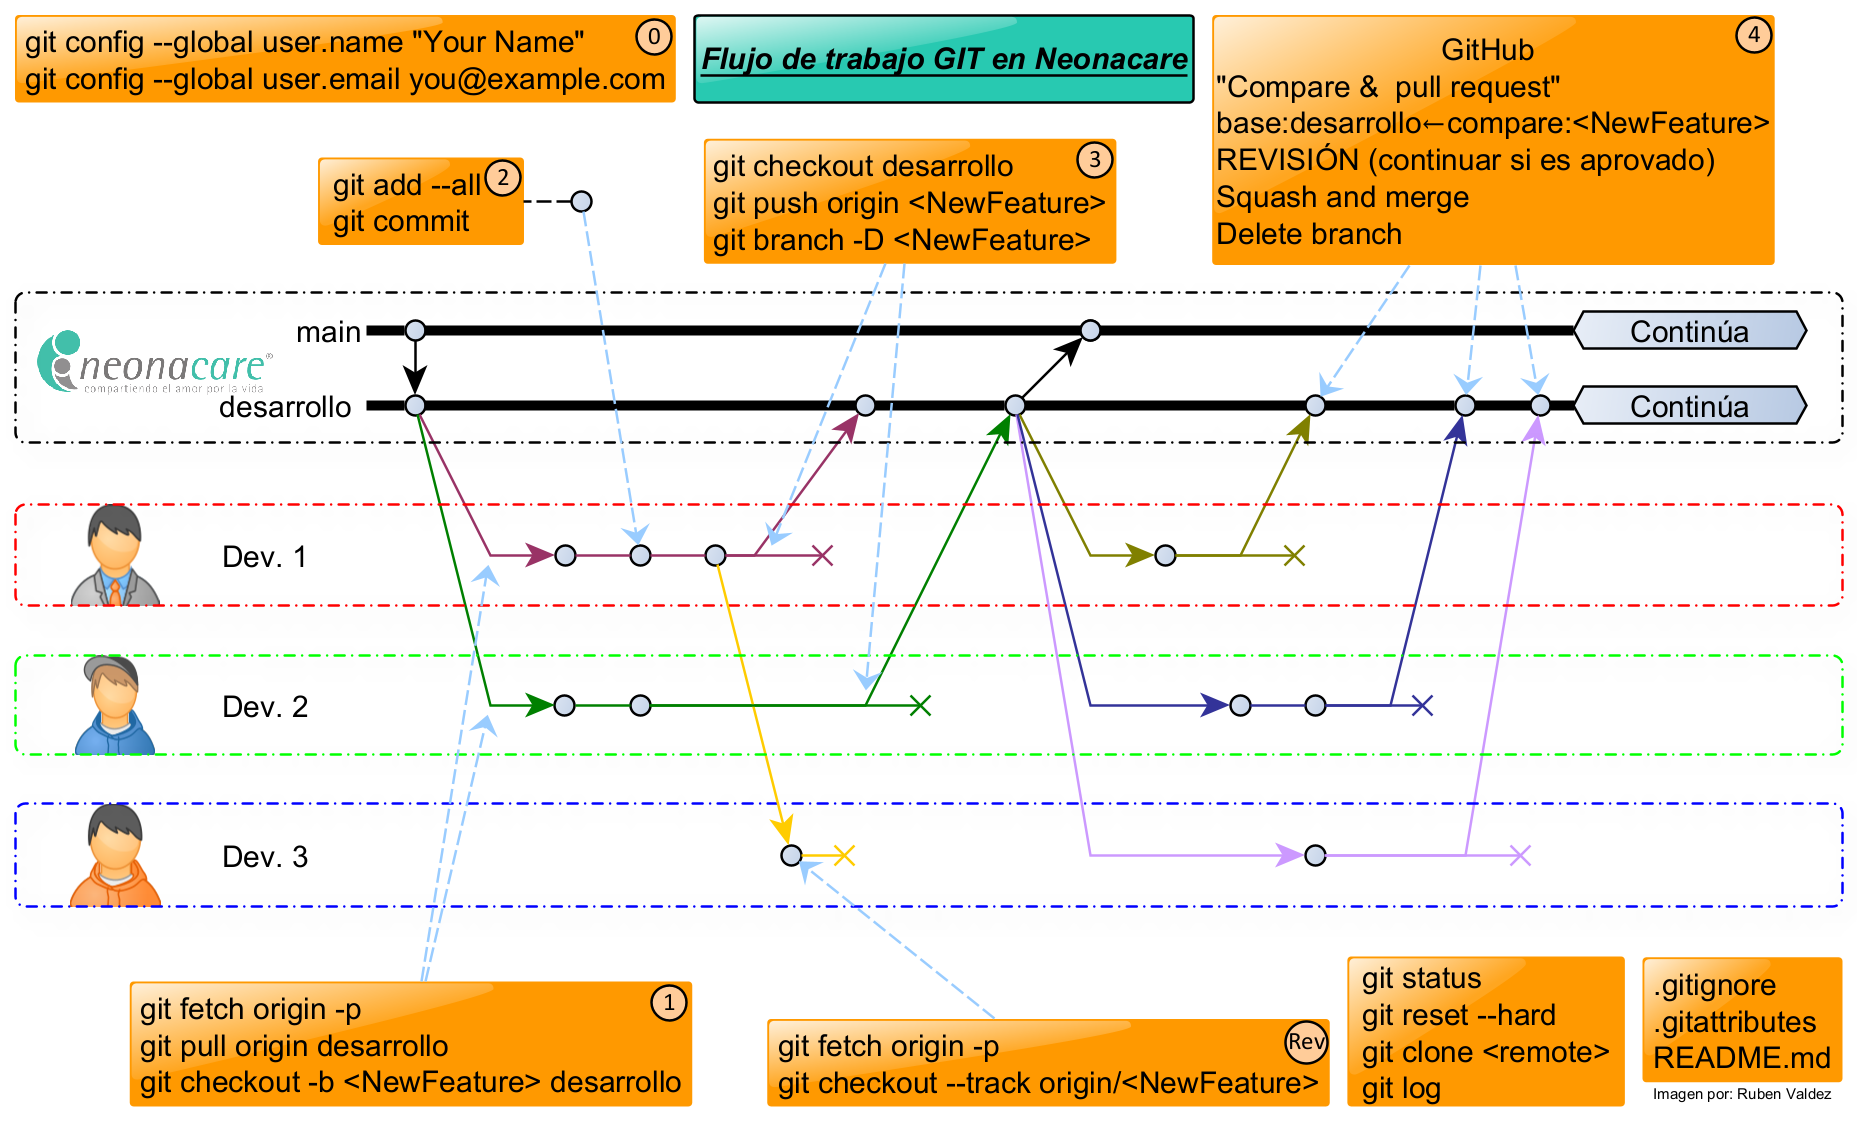
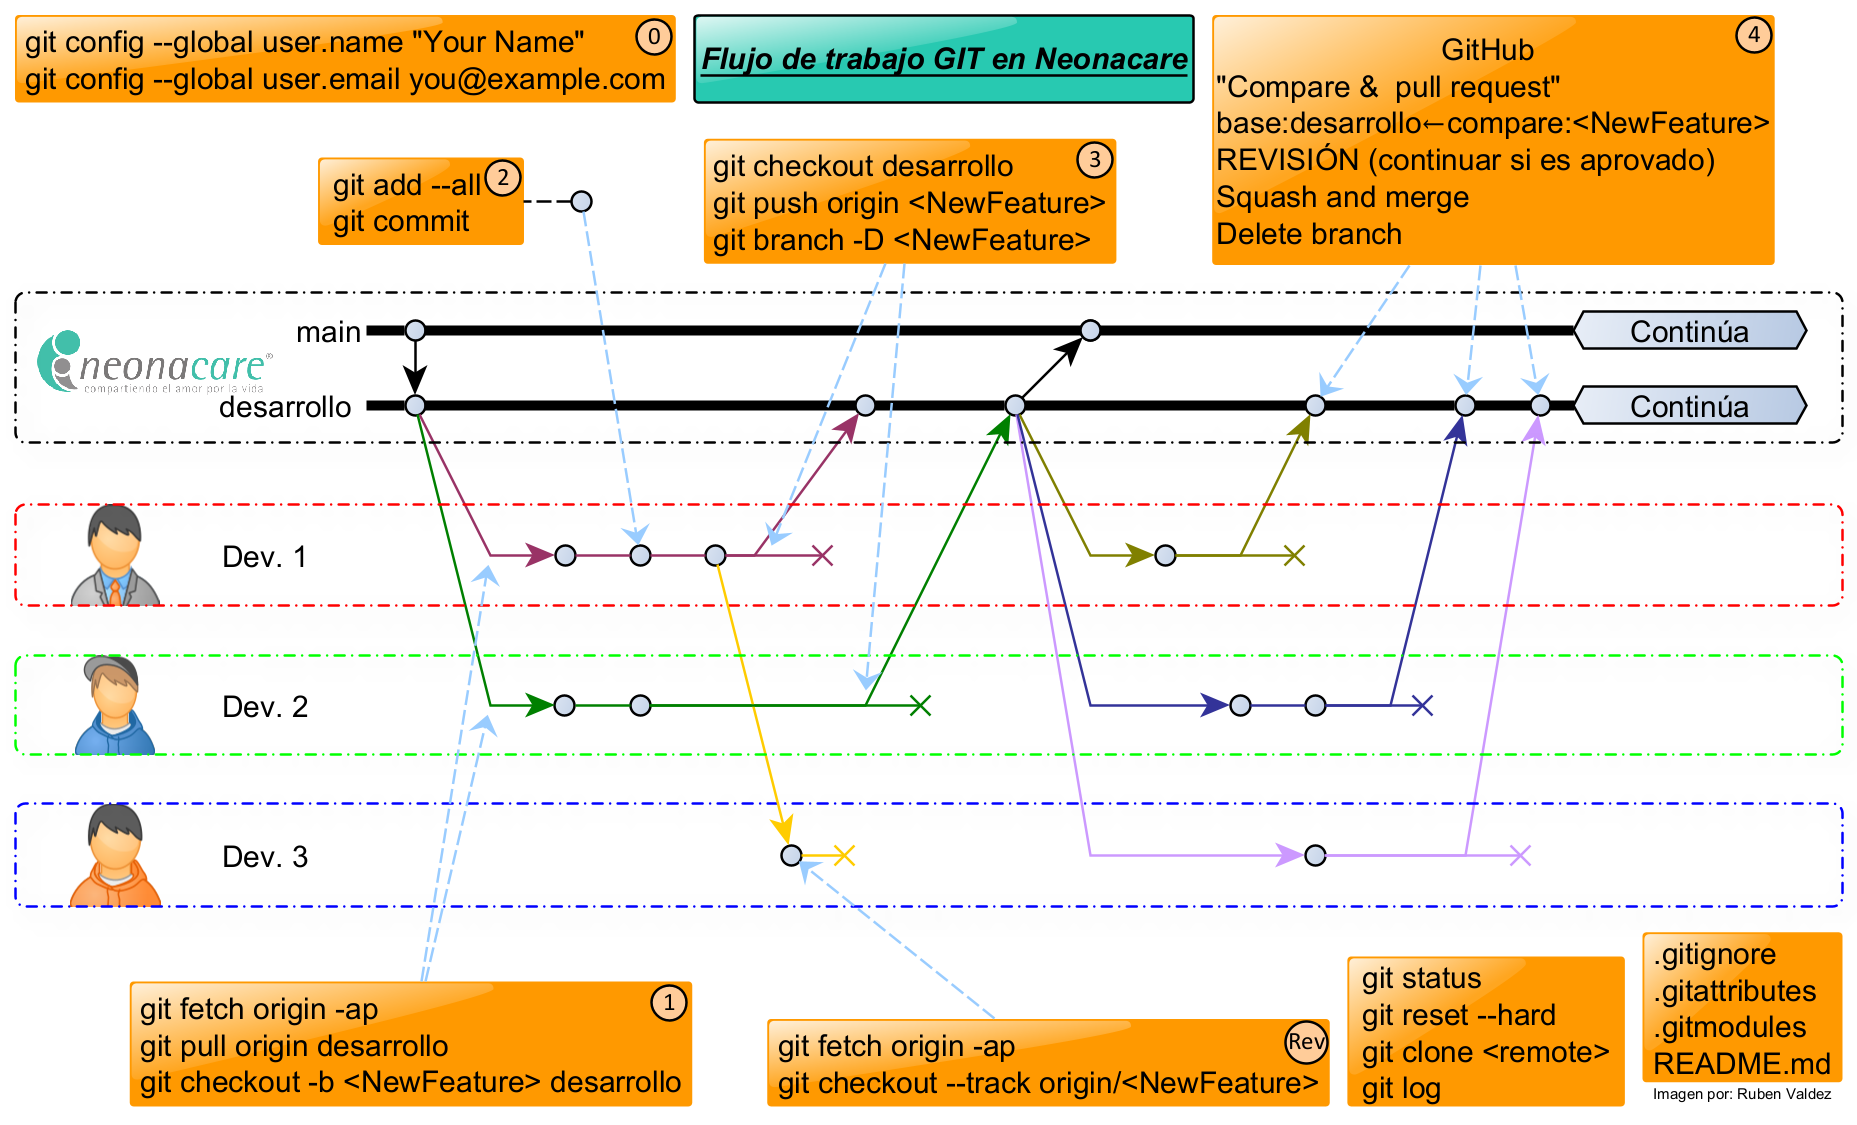
Cambio: Se añade flag a comando fetch
Descripción: El comando queda de la siguiente manera: git fetch origin -ap

Changed region(s): [[0.8745, 0.8089, 0.9995, 0.9644]]

diff --git a/README.md b/README.md
@@ -78,7 +78,7 @@ Para obtener los últimos cambios al repositorio local, realizamos los siguiente
 1. [Abrir Git Bash](#abrir-línea-de-comando-de-git-git-bash) en la carpeta del repositorio.
 2. Ingresar los siguientes comandos para actualizar una rama local en particular:
 ``` console
-git fetch origin -p
+git fetch origin -ap
 git pull origin rama-a-actualizar
 ```
 Este comando actualizara el repositorio local con los cambios que existan en el repositorio remoto (en GitHub).
@@ -152,7 +152,7 @@ Una vez creado el `pull-request` se le notificará al resto de colaboradores par
 
 Para revisar los cambios de una rama remota nueva, en un repositorio local, se ejecutan los siguientes comandos:
 ``` console
-git fetch origin -p
+git fetch origin -ap
 git checkout --track origin/<NewFeature>
 ```
 
@@ -171,7 +171,7 @@ De manera paralela, se deberá eliminar la rama en el repositorio local y [actua
 ```` console
 git checkout desarrollo        
 git branch -D <NewFeature>
-git fetch origin -p
+git fetch origin -ap
 git pull origin desarrollo
 ````
 
